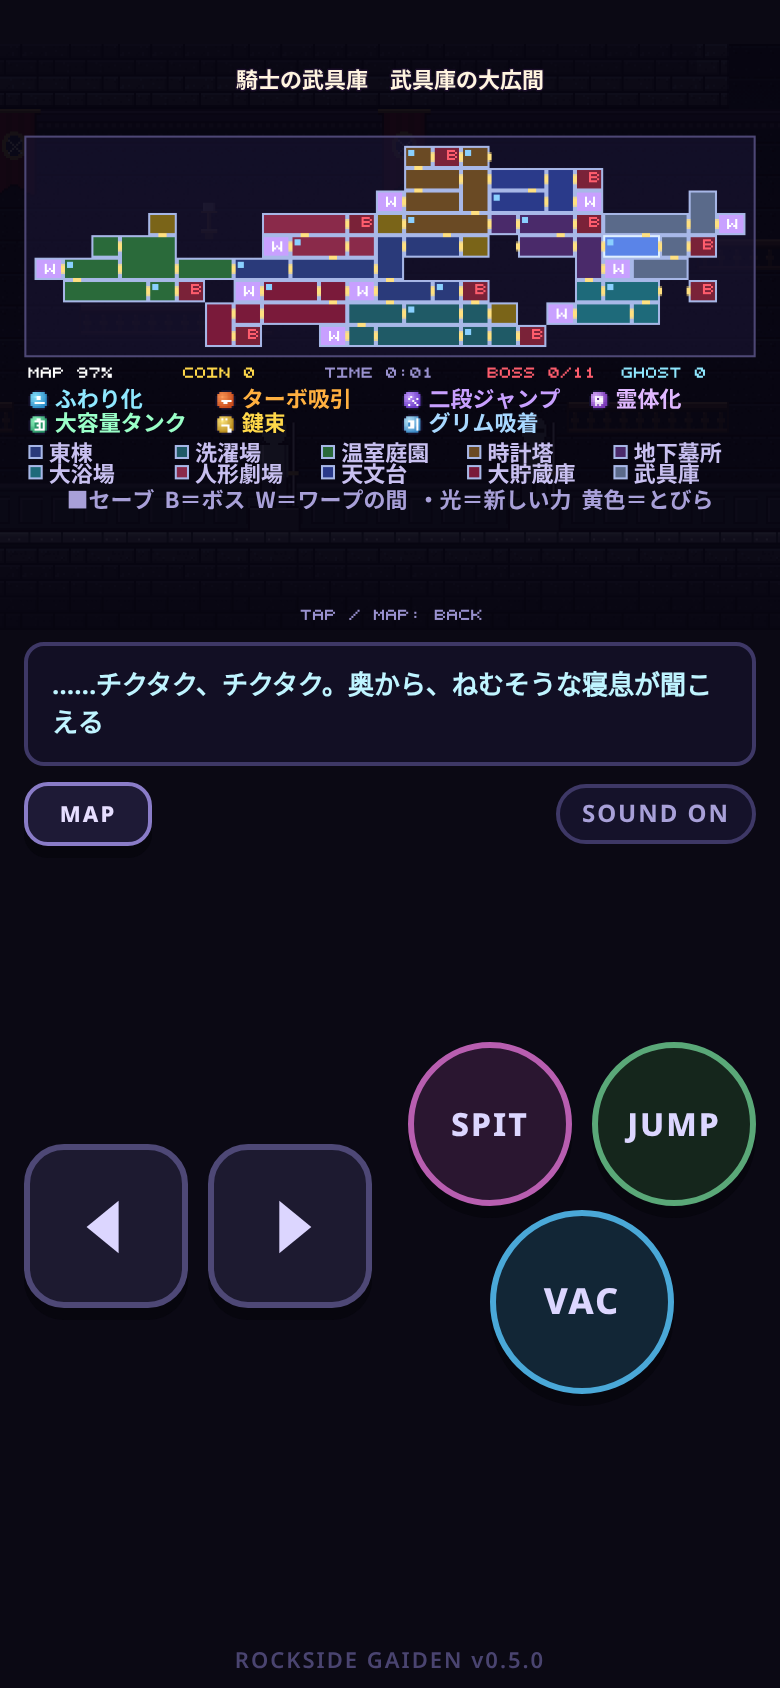
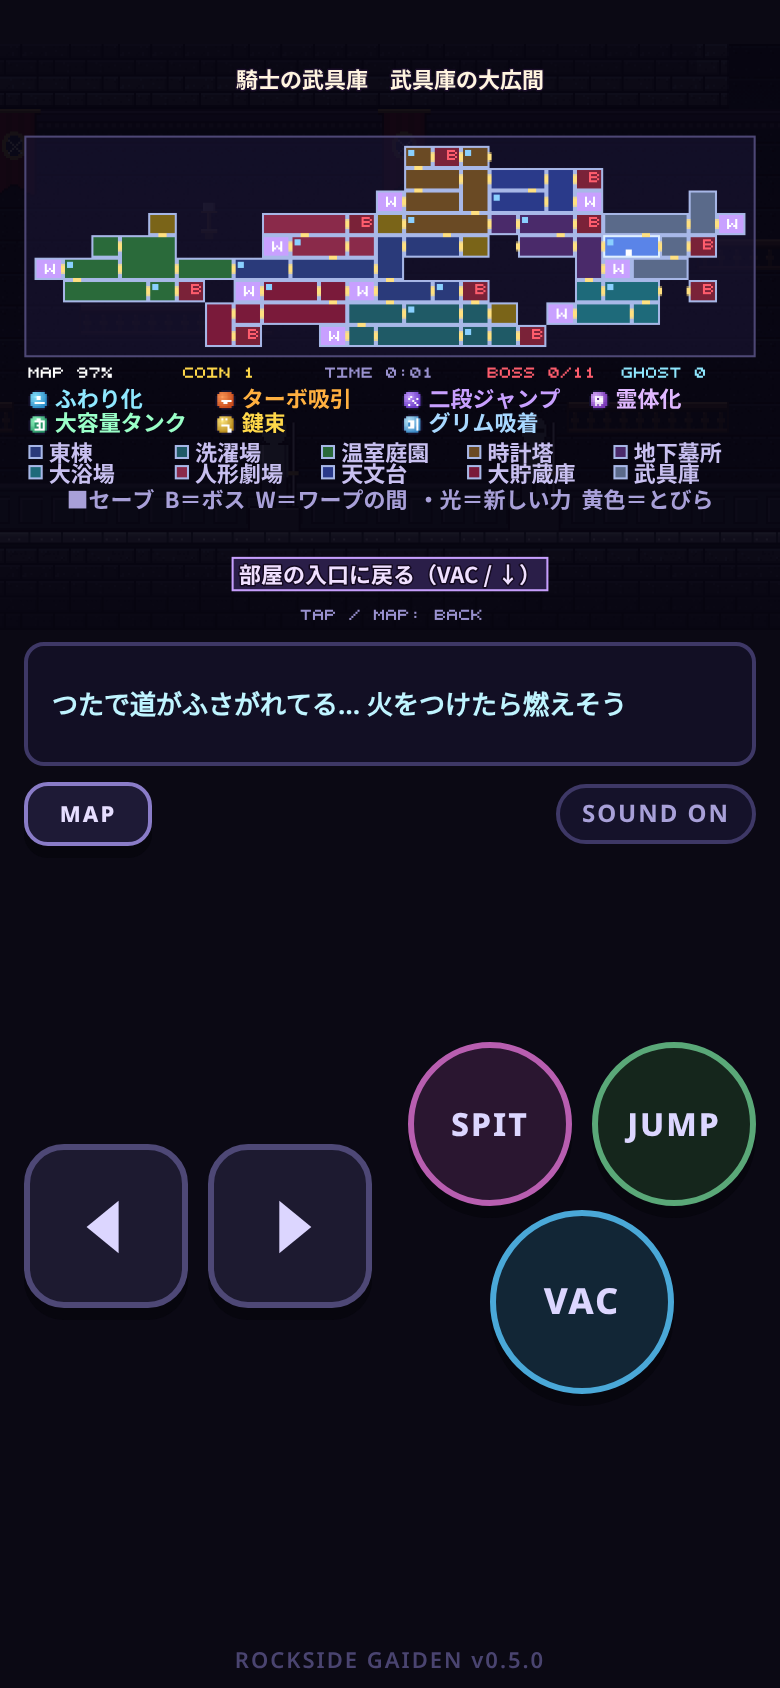
v0.5.0: phase A on top of v0.4.3 (barracks ledge headroom, map escape button)

Changed region(s): [[0.2769, 0.3081, 0.7077, 0.3697], [0.0615, 0.4005, 0.8923, 0.4313]]

diff --git a/index.html b/index.html
@@ -1174,8 +1174,8 @@ ROOM_DEFS.push(
       ['banner', 60, 2, { top: 1 }], ['stainedglass', 26, 9], ['stainedglass', 50, 9], ['sconce', 4, 8, { light: 1 }], ['sconce', 32, 8, { light: 1 }], ['sconce', 68, 10, { light: 1 }]] },
 
   { id: 'barracks', jp: '従者の詰め所', en: 'SQUIRES\' BARRACKS', area: 'armory', theme: 'armory', tiles: 'a', cx: 15, cy: 0, cw: 1, ch: 1, dark: 0.5,
-    build(R) { R.box(); R.open('L', 0, 11, 14); R.open('R', 0, 11, 14); R.open('B', 0, 8, 11); R.plat(2, 6, 11); R.plat(14, 19, 9); R.plat(17, 22, 5); },
-    ents: [['skeleton', 16, 15, { foe: { skin: 'squire' } }], ['pan', 4, 11], ['coin', 18, 5], ['coin', 20, 5], ['heart', 16, 9], ['chair', 20, 15]],
+    build(R) { R.box(); R.open('L', 0, 11, 14); R.open('R', 0, 11, 14); R.open('B', 0, 8, 11); R.plat(2, 6, 11); R.plat(14, 19, 9); R.plat(17, 22, 6); },
+    ents: [['skeleton', 16, 15, { foe: { skin: 'squire' } }], ['pan', 4, 11], ['coin', 18, 6], ['coin', 20, 6], ['heart', 16, 9], ['chair', 20, 15]],
     decor: [['trunk', 3, 15], ['table', 18, 15], ['weaponrack', 13, 15], ['banner', 6, 2, { top: 1 }], ['sconce', 10, 8, { light: 1 }]] },
 
   { id: 'smithy', jp: '鍛冶場', en: 'THE SMITHY', area: 'armory', theme: 'armory', tiles: 'a', cx: 14, cy: 1, cw: 2, ch: 1, dark: 0.48,

diff --git a/src/04k_rooms_armory.js b/src/04k_rooms_armory.js
@@ -25,8 +25,8 @@ ROOM_DEFS.push(
       ['banner', 60, 2, { top: 1 }], ['stainedglass', 26, 9], ['stainedglass', 50, 9], ['sconce', 4, 8, { light: 1 }], ['sconce', 32, 8, { light: 1 }], ['sconce', 68, 10, { light: 1 }]] },
 
   { id: 'barracks', jp: '従者の詰め所', en: 'SQUIRES\' BARRACKS', area: 'armory', theme: 'armory', tiles: 'a', cx: 15, cy: 0, cw: 1, ch: 1, dark: 0.5,
-    build(R) { R.box(); R.open('L', 0, 11, 14); R.open('R', 0, 11, 14); R.open('B', 0, 8, 11); R.plat(2, 6, 11); R.plat(14, 19, 9); R.plat(17, 22, 5); },
-    ents: [['skeleton', 16, 15, { foe: { skin: 'squire' } }], ['pan', 4, 11], ['coin', 18, 5], ['coin', 20, 5], ['heart', 16, 9], ['chair', 20, 15]],
+    build(R) { R.box(); R.open('L', 0, 11, 14); R.open('R', 0, 11, 14); R.open('B', 0, 8, 11); R.plat(2, 6, 11); R.plat(14, 19, 9); R.plat(17, 22, 6); },
+    ents: [['skeleton', 16, 15, { foe: { skin: 'squire' } }], ['pan', 4, 11], ['coin', 18, 6], ['coin', 20, 6], ['heart', 16, 9], ['chair', 20, 15]],
     decor: [['trunk', 3, 15], ['table', 18, 15], ['weaponrack', 13, 15], ['banner', 6, 2, { top: 1 }], ['sconce', 10, 8, { light: 1 }]] },
 
   { id: 'smithy', jp: '鍛冶場', en: 'THE SMITHY', area: 'armory', theme: 'armory', tiles: 'a', cx: 14, cy: 1, cw: 2, ch: 1, dark: 0.48,
